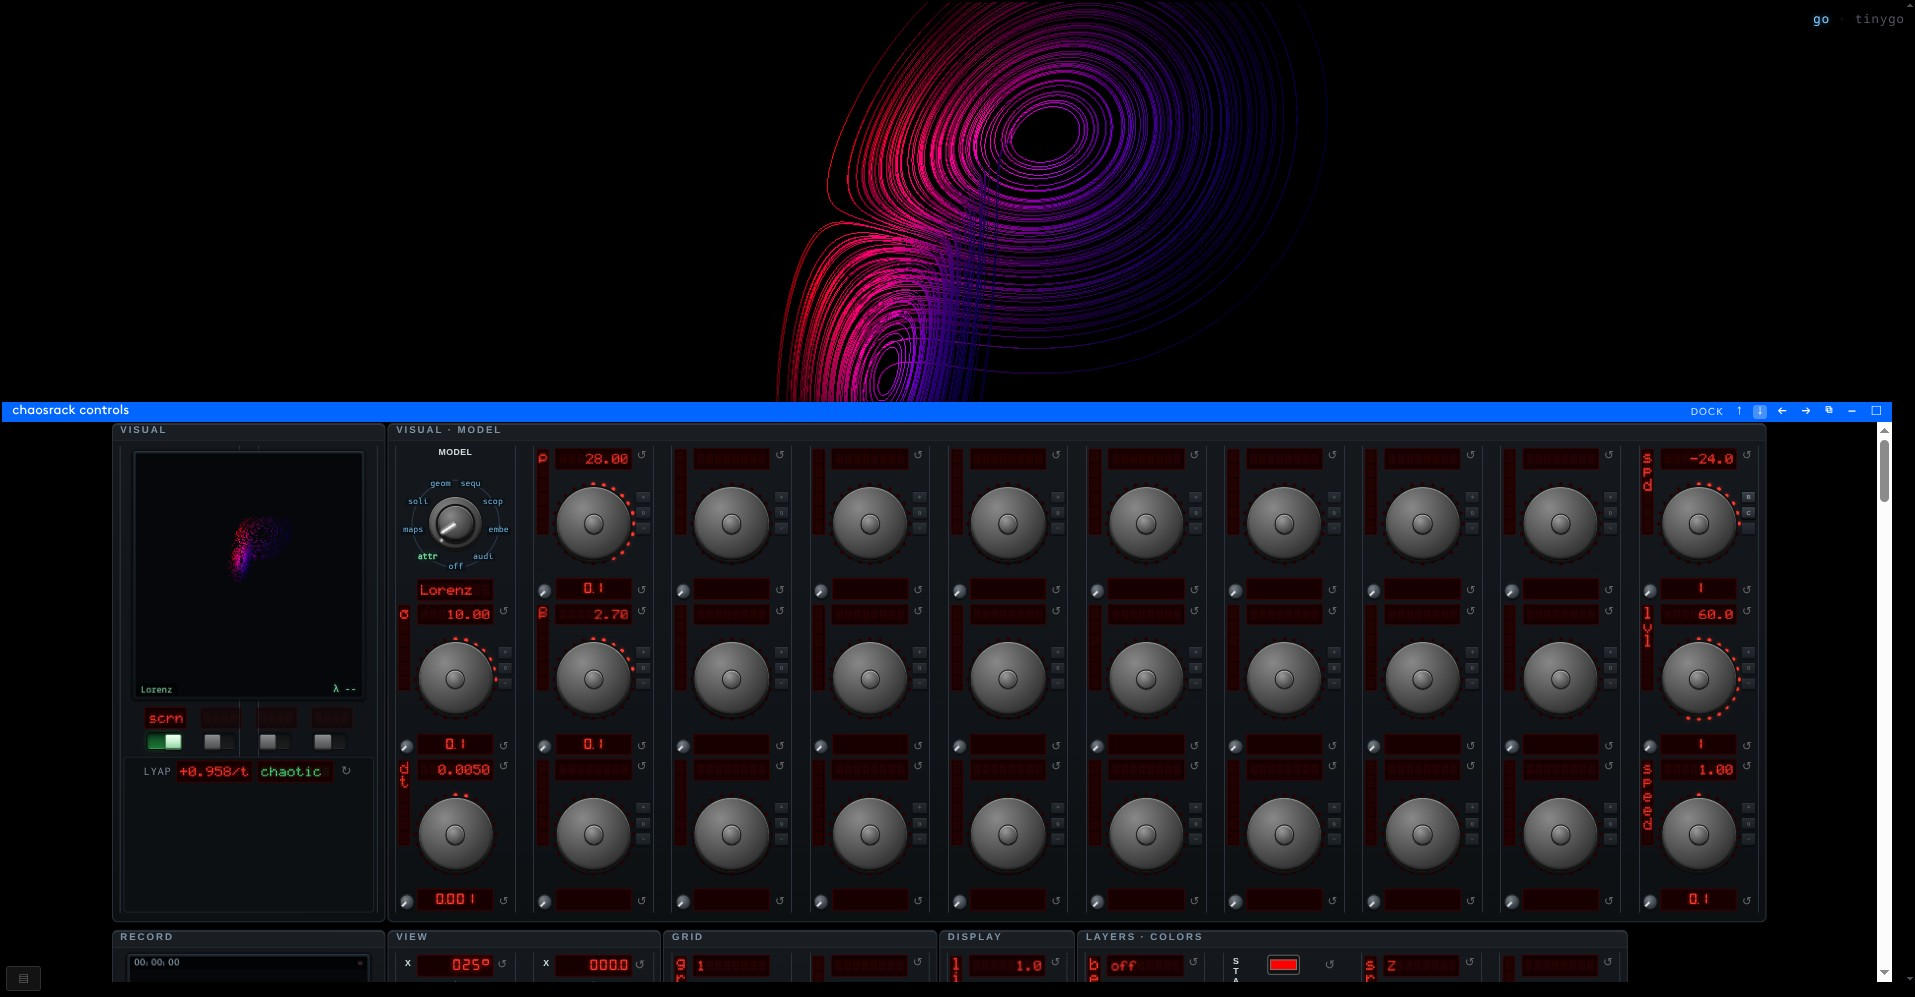
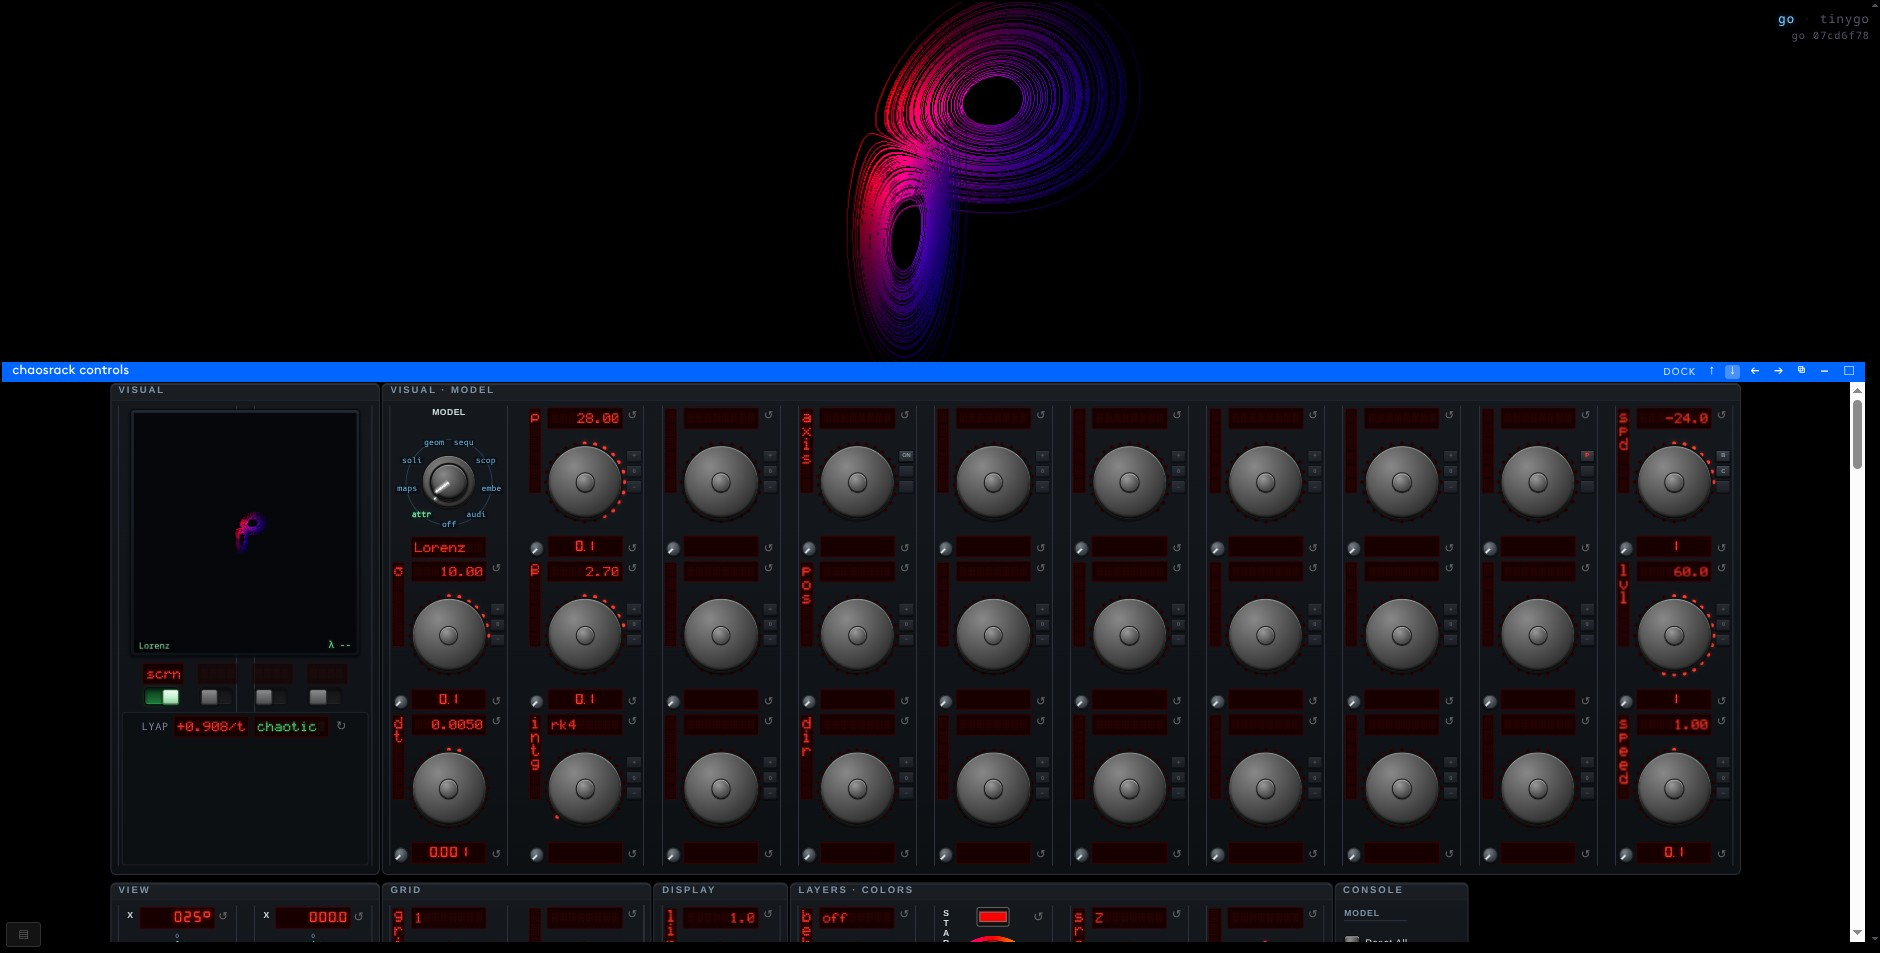
README: retake the hero shot with today's panel
The October picture showed a panel that has since changed. The framing
moves to zoom 10 and pan 0.4, since the camera fit changed and the old
zoom drew the attractor small and high.

Changed region(s): [[0.0, 0.0, 1.0, 1.0], [0.1234, 0.5173, 0.1543, 0.5782], [0.7713, 0.7303, 0.8021, 0.7608]]

diff --git a/pkg/uitool/shots.go b/pkg/uitool/shots.go
@@ -85,7 +85,7 @@ func runShots() {
 // captureHero: panel docked to the bottom with the model raised above it
 // (pan-y lifts the model clear of the panel).
 func captureHero(c *cdp.Client) {
-	c.Eval(`location.hash='#lorenz&ar=0&rot=25,40,0&py=2&z=-18'`)
+	c.Eval(`location.hash='#lorenz&ar=0&rot=25,40,0&py=0.4&z=10'`)
 	c.Reload(3500 * time.Millisecond)
 	img, err := c.Screenshot()
 	if err != nil {
